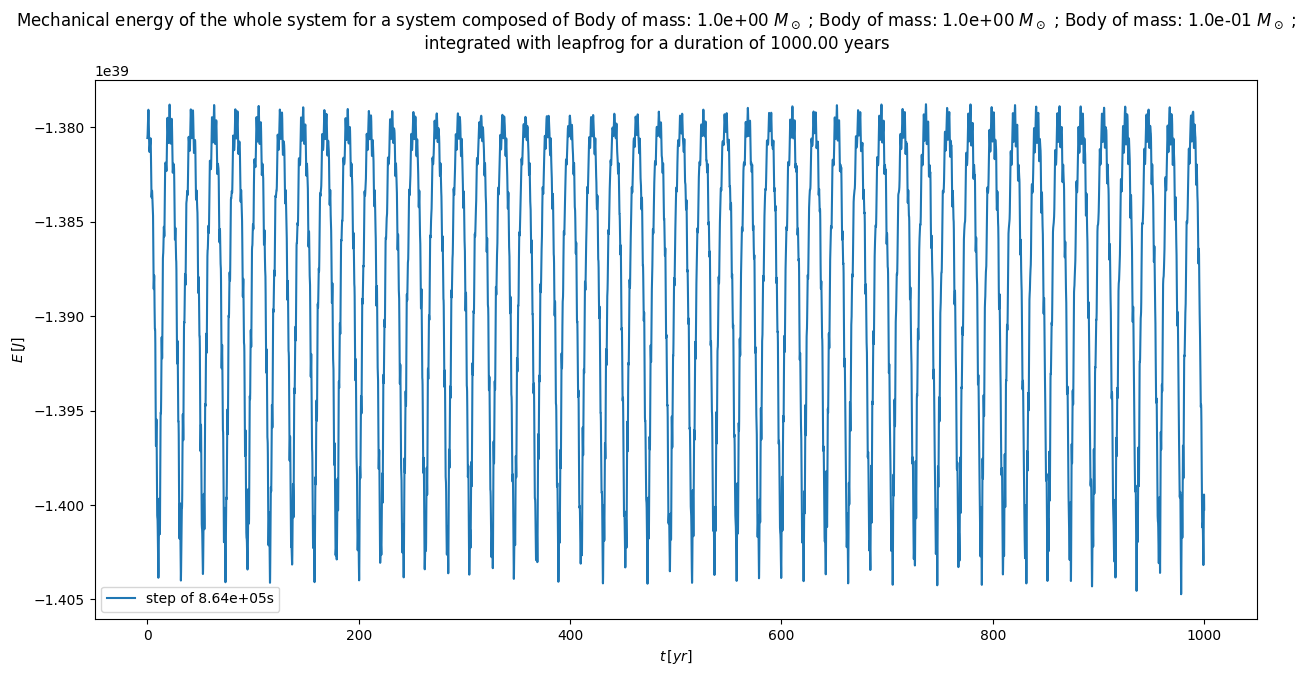
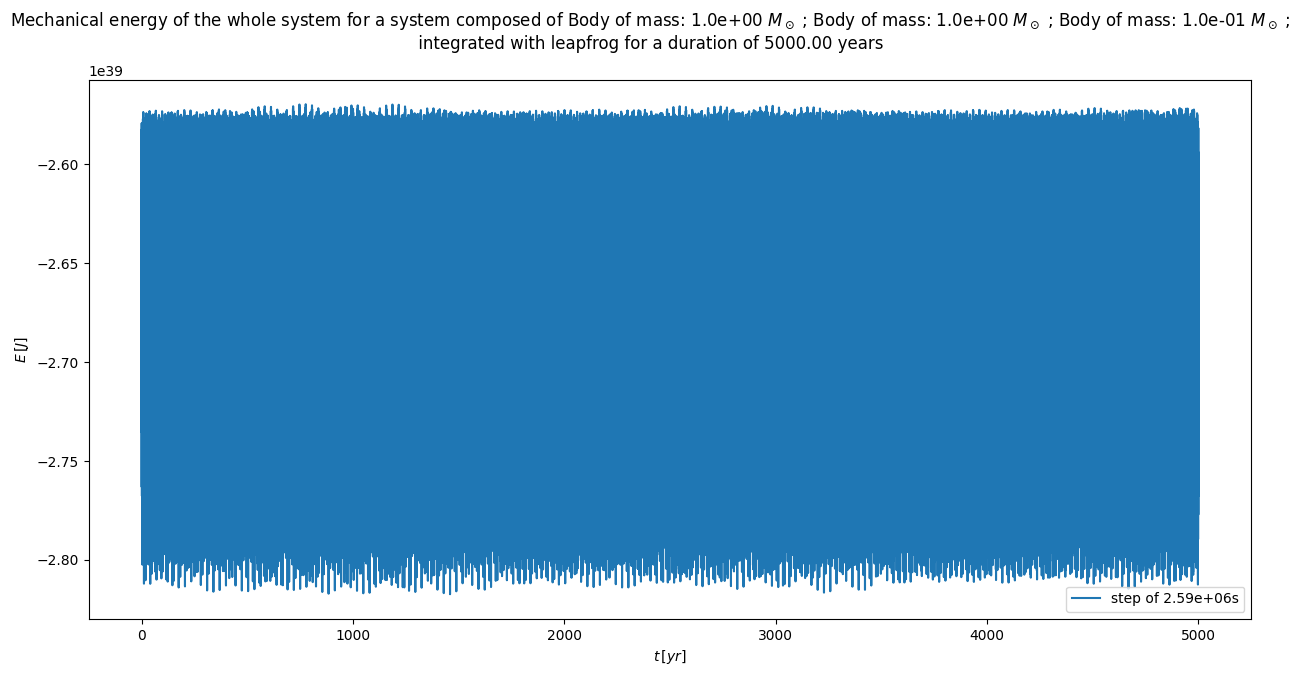
change sma and ecc computation to ECOM and LCOM

diff --git a/lib/objects.py b/lib/objects.py
@@ -123,8 +123,8 @@ class System(Body):
         COM = self.COM
         COMV = self.COMV
         for body in self.bodylist:
-            body.qb = body.qb - COM
-            body.vb = body.vb - COMV
+            body.qb = body.q - COM
+            body.vb = body.v - COMV
 
     @property
     def LBIN(self): #return angular momentum of inner binary
@@ -149,23 +149,21 @@ class System(Body):
         return E
 
     @property
-    def LCOM(self): #return angular momentum of the center of mass
+    def LCOM(self): #return angular momentum in the center of mass of a binary system
+        #self.COMShiftBin()
         LCOM = np.zeros(3,dtype=np.longdouble)
-        dr = self.bodylist[0].m/self.mu*self.bodylist[0].q
-        dv = self.bodylist[0].m/self.mu*self.bodylist[0].v
+        dr = self.bodylist[0].m/self.mu*self.bodylist[0].q#b
+        dv = self.bodylist[0].m/self.mu*self.bodylist[0].v#b
         LCOM = self.mu*np.cross(dr,dv)
-
-        LCOM = self.L
 
         return LCOM
 
     @property
-    def ECOM(self): #return mechanical energy of the center of mass
-        dr = self.bodylist[0].m/self.mu*self.bodylist[0].q
-        dv = self.bodylist[0].m/self.mu*self.bodylist[0].v
+    def ECOM(self): #return mechanical energy in the center of mass of a binary system
+        #self.COMShiftBin()
+        dr = self.bodylist[0].m/self.mu*self.bodylist[0].q#b
+        dv = self.bodylist[0].m/self.mu*self.bodylist[0].v#b
         ECOM = self.mu/2.*np.linalg.norm(dv)**2 - Ga*self.M*self.mu/np.linalg.norm(dr)
-
-        ECOM = self.E
 
         return ECOM
 
@@ -188,6 +186,22 @@ class System(Body):
                     W = W - Ga*body.m*otherbody.m/rij
         E = T + W
         return E
+
+    @property
+    def eccCOM(self): #exentricity of two body sub system
+        if len(self.bodylist) == 2 :
+            ecc = (2.*self.ECOM*(np.linalg.norm(self.LCOM)**2))/((Ga**2)*(self.M**2)*(self.mu**3)) + 1.
+        else :
+            ecc = np.nan
+        return ecc
+
+    @property
+    def smaCOM(self): #semi major axis of two body sub system
+        if len(self.bodylist) == 2 :
+            sma = -Ga*self.M*self.mu/(2.*self.ECOM)
+        else :
+            sma = np.nan
+        return sma
 
     @property
     def ecc(self): #exentricity of two body sub system

diff --git a/main.py b/main.py
@@ -12,7 +12,7 @@ from lib.units import *
 def main():
     #initialisation
     m = np.array([1., 1., 1e-1],dtype=np.longdouble)*Ms#/Ms  # Masses in Solar mass
-    a = np.array([1., 1., 10.],dtype=np.longdouble)*au#/au   # Semi-major axis in astronomical units
+    a = np.array([1., 1., 10.],dtype=np.longdouble)/2.*au#/au   # Semi-major axis in astronomical units
     e = np.array([0., 0., 0.25],dtype=np.longdouble)   # Eccentricity
     psi = np.array([0., 0., 60.],dtype=np.longdouble)*np.pi/180.    # Inclination of the orbital plane in degrees
 
@@ -27,7 +27,7 @@ def main():
     v = np.array([v1, v2, v3],dtype=np.longdouble)
 
     #integration parameters
-    duration, step = 1000*yr, np.array([10.*86400.],dtype=np.longdouble) #integration time and step in seconds
+    duration, step = 5000*yr, np.array([30.*86400.],dtype=np.longdouble) #integration time and step in seconds
     step = np.sort(step)[::-1]
     integrator = "leapfrog"
     n_bodies = 3
@@ -57,7 +57,8 @@ def main():
         phi.append(phi0)
 
     parameters = [duration, step, dyn_syst, integrator]
-    display_parameters(E, L, sma, ecc, phi, parameters=parameters, savename=savename)
+    display_parameters(E, L, sma, ecc, phi, parameters=parameters, savename=savename) #take the mean value of sma/ecc on given time interval (up to one period)
+    # np.convolve(sma, np.ones(int(period/step)))/int(period/step) -> moving average on the period duration
     return 0
 
 if __name__ == '__main__':

diff --git a/lib/plots.py b/lib/plots.py
@@ -134,7 +134,7 @@ def display_parameters(E,L,sma,ecc,phi,parameters,savename=""):
 
     fig3 = plt.figure(figsize=(15,7))
     ax3 = fig3.add_subplot(111)
-    ax3.plot(np.arange(sma[-1].shape[0])*step[-1]/yr, sma[-1], label="a (step of {0:.2e}s)".format(step[-1]))
+    ax3.plot(np.arange(sma[-1].shape[0])*step[-1]/yr, sma[-1]/au, label="a (step of {0:.2e}s)".format(step[-1]))
     ax3.plot(np.arange(ecc[-1].shape[0])*step[-1]/yr, ecc[-1], label="e (step of {0:.2e}s)".format(step[-1]))
     ax3.set(xlabel=r"$t \, [yr]$", ylabel=r"$a \, [au] \, or \, e$")
     ax3.legend()

diff --git a/lib/hermite.py b/lib/hermite.py
@@ -100,8 +100,8 @@ def hermite(dyn_syst, bin_syst, duration, dt, recover_param=False, display=False
 
         E[j] = dyn_syst.E
         L[j] = dyn_syst.L
-        sma[j] = bin_syst.sma
-        ecc[j] = bin_syst.ecc
+        sma[j] = bin_syst.smaCOM
+        ecc[j] = bin_syst.eccCOM
         phi[j] = dyn_syst.phi
 
         if display and j % 10 == 0:

diff --git a/lib/LeapFrog.py b/lib/LeapFrog.py
@@ -53,8 +53,8 @@ def leapfrog(dyn_syst, bin_syst, duration, dt, recover_param=False, display=Fals
 
         E[j] = dyn_syst.E
         L[j] = dyn_syst.L
-        sma[j] = bin_syst.sma
-        ecc[j] = bin_syst.ecc
+        sma[j] = bin_syst.smaCOM
+        ecc[j] = bin_syst.eccCOM
         phi[j] = dyn_syst.phi
 
         if display and j % 10 == 0:
